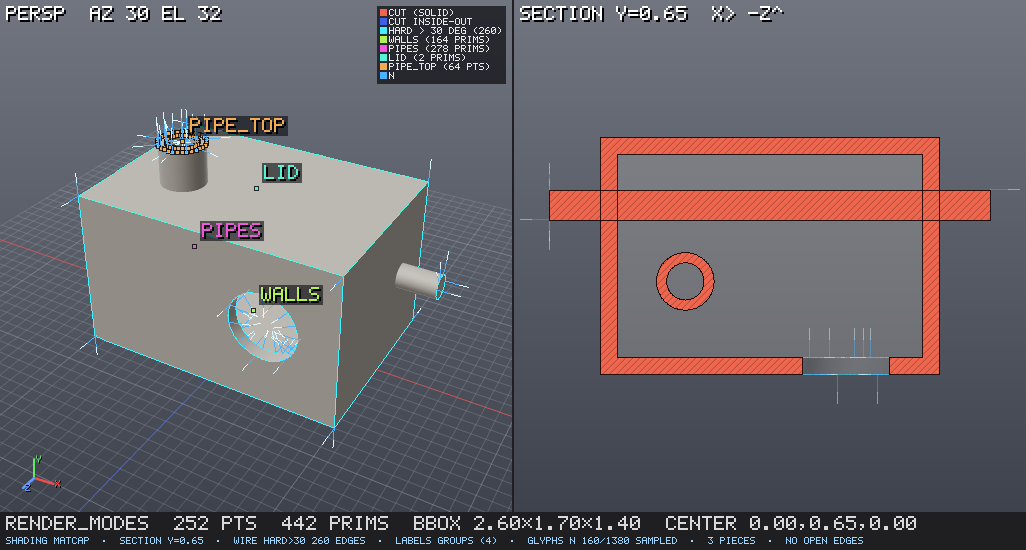
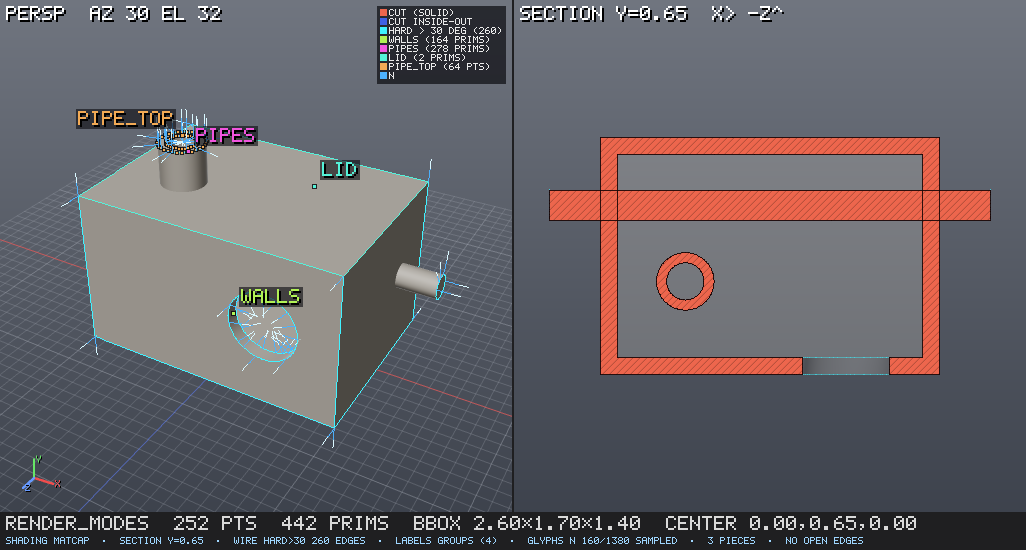
Render overlays: smaller point-group markers; re-render render_modes

Changed region(s): [[0.0624, 0.1855, 0.4366, 0.68]]

diff --git a/src/render/raster.ts b/src/render/raster.ts
@@ -1020,7 +1020,7 @@ export function renderGeometry(g: Geometry, o: RenderOptions = {}): RenderResult
       for (let k = 0; k < (flat2d ? 0 : dotPts.length); k++) {
         const i = dotPts[k];
         if (!keptPt(i) || (cam.persp && vz[i] < 1e-4) || hidden(cz[i], sx[i] * inv, sy[i] * inv)) continue;
-        dotOv(tb, T, T, sx[i] * inv, sy[i] * inv, 2 * ui + 1, styles[dotSt[k]].c);
+        dotOv(tb, T, T, sx[i] * inv, sy[i] * inv, 2 * ui, styles[dotSt[k]].c);
       }
       // glyphs: anchored on visible surface points, parts behind the surface dimmed, brighter tip
       const m3 = [0, 0, 0, 0];
